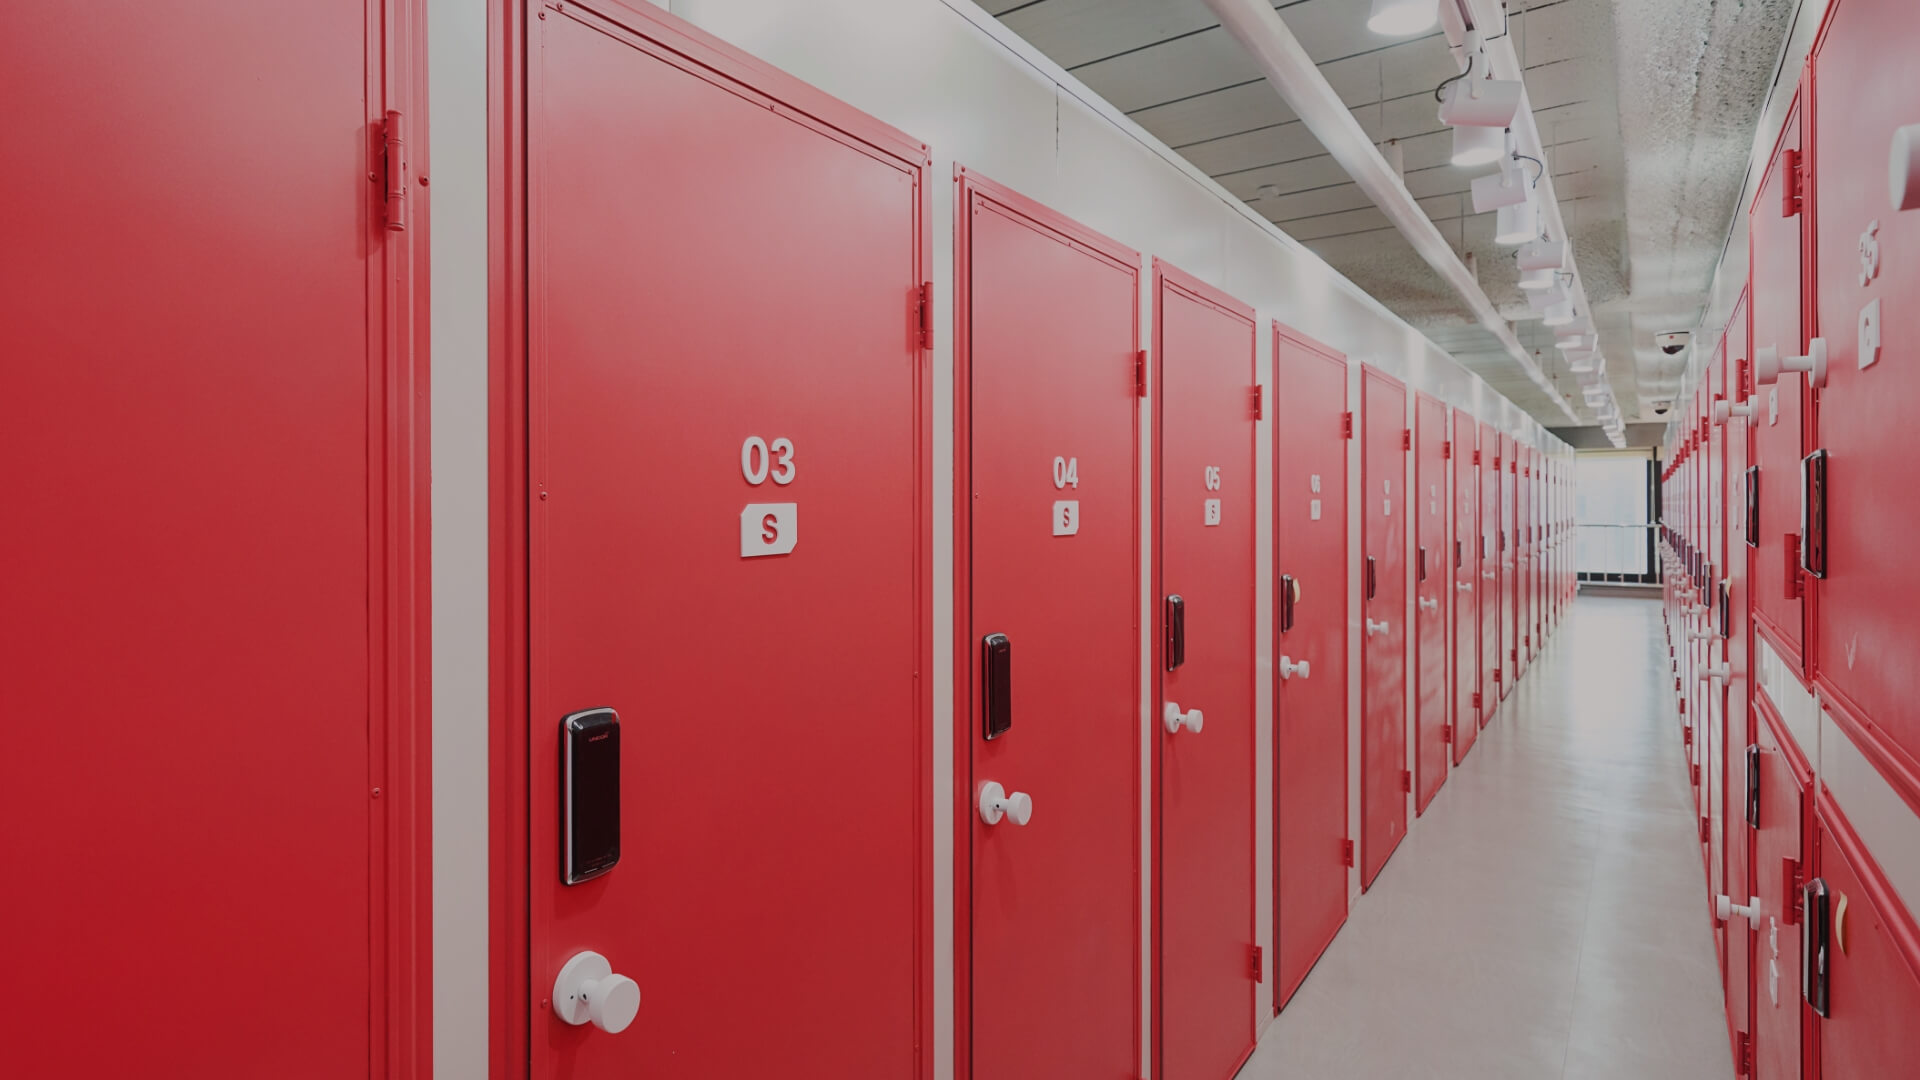
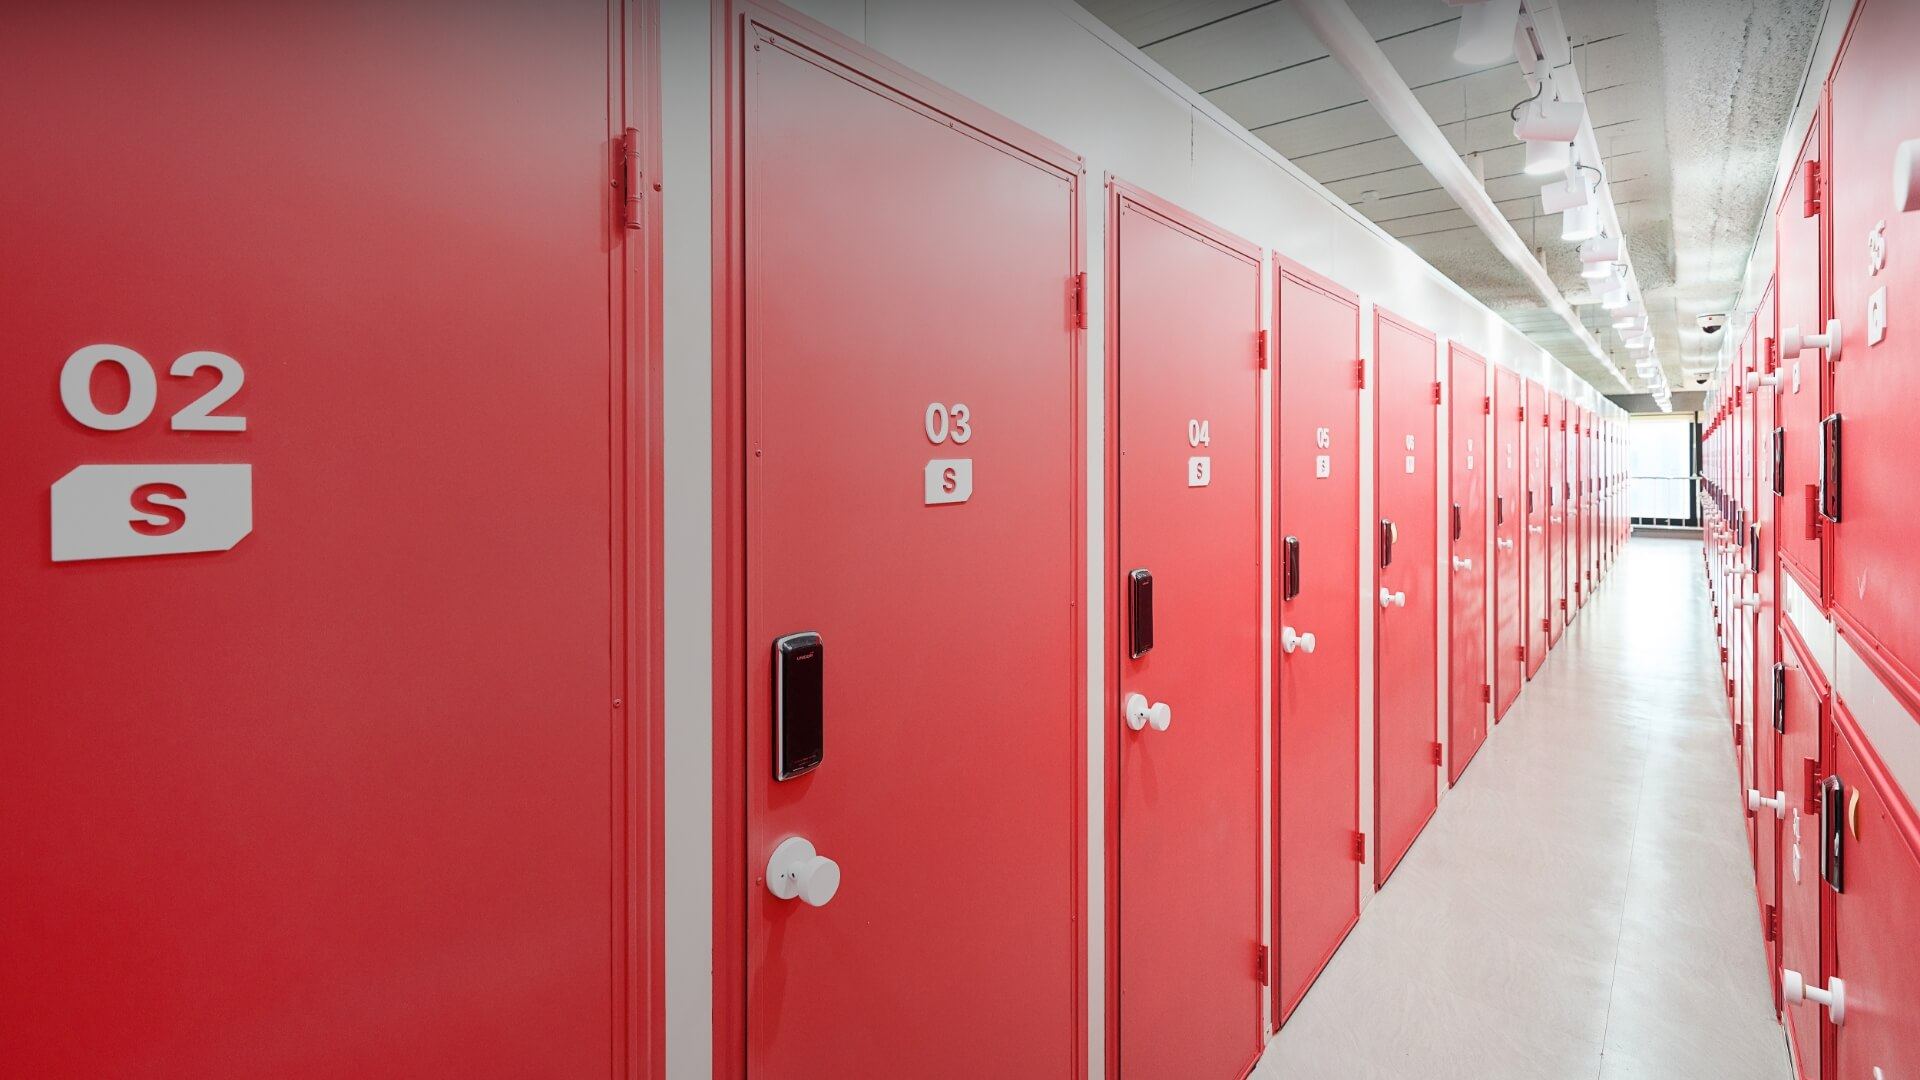
220118_joung

diff --git a/index.html b/index.html
@@ -309,24 +309,24 @@ if (confirm('저장하시겠습니까?') == true) {
         짐 보관도 할 수 있고<br>
         사업도 할 수 있는 슈가맨카고
       </h3>
-      <div class="row mt-4">
+      <div class="row mt-5">
         <div class="col-md-4">
           <img src="./assets/img/cargo_1_.jpg" class="img-fluid" alt="">
-          <h6 class="main-text mt-3">비즈니스 서비스</h6>
+          <h6 class="main-text mt-4">비즈니스 서비스</h6>
           <p class="sub-text">사업자 주소지가 필요한 경우<br class="d-none d-xl-block d-lg-block">
             사업자 주소지를 등록해 이용할 수 있으며<br class="d-none d-xl-block d-lg-block">
             무료로 제공하는 우편물 서비스도 누려보세요.</p>
         </div>
         <div class="col-md-4">
           <img src="./assets/img/cargo_2_.jpg" class="img-fluid" alt="">
-          <h6 class="main-text mt-3">물품 보관</h6>
+          <h6 class="main-text mt-4">물품 보관</h6>
           <p class="sub-text">업무 공간, 주거 공간에 물품들이 넘쳐나<br class="d-none d-xl-block d-lg-block">
             공간 이용이 부족한 경우 적당한 크기의<br class="d-none d-xl-block d-lg-block">
             스토리지를 이용해 공간 활용을 높여보세요.</p>
         </div>
         <div class="col-md-4">
           <img src="./assets/img/cargo_3_.jpg" class="img-fluid" alt="">
-          <h6 class="main-text mt-3">택배 서비스</h6>
+          <h6 class="main-text mt-4">택배 서비스</h6>
           <p class="sub-text">온라인 쇼핑몰을 운영한다면<br class="d-none d-xl-block d-lg-block">
             물량 걱정 없이 슈가맨워크와 제휴된 택배사로<br class="d-none d-xl-block d-lg-block">
             저렴한 가격에 택배를 경험해 보세요.</p>
@@ -587,7 +587,7 @@ if (confirm('저장하시겠습니까?') == true) {
           <ul class="footer-con-3">
             <li>
               <span>주소
-              </span>경기도 부천시 중동로254번길 78(중동) 6층
+              </span>경기도 부천시 중동로 254번길 78 6F
               <strong style="color: #e1e1e1"> | </strong>
             </li>
             <li>

diff --git a/assets/css/style.css b/assets/css/style.css
@@ -90,7 +90,9 @@ body {
   font-family: 'Noto Sans KR', sans-serif !important;
   letter-spacing: -.01em;
 }
-
+h3{
+  line-height: 1.4;
+}
 ul {
   list-style: none;
 }
@@ -228,7 +230,7 @@ ul {
   }
 
   .main-banner-text {
-    font-size: 2.5rem;
+    font-size: 2.4rem;
   }
 
   .branch-box {
@@ -580,7 +582,7 @@ ul {
 
 /* 메인페이지 메인배너 */
 .main-banner-wrap {
-  background-image: url(../img/main_banner.jpg);
+  background-image: url(../img/main_banner2@2x.jpg);
   background-repeat: no-repeat;
   background-position: center;
   background-size: cover;
@@ -626,7 +628,7 @@ ul {
 
 .main-banner-text {
   color: #fff;
-  font-size: 3.438rem;
+  font-size: 3.313rem;
   font-weight: 500;
 }
 

diff --git a/visit.html b/visit.html
@@ -549,7 +549,7 @@ if (confirm('저장하시겠습니까?') == true) {
           <ul class="footer-con-3">
             <li>
               <span>주소
-              </span>경기도 부천시 중동로254번길 78(중동) 6층
+              </span>경기도 부천시 중동로 254번길 78 6F
               <strong style="color: #e1e1e1"> | </strong>
             </li>
             <li>

diff --git a/faq.html b/faq.html
@@ -277,7 +277,7 @@
             <ul class="footer-con-3">
               <li>
                 <span>주소
-                </span>경기도 부천시 중동로254번길 78(중동) 6층
+                </span>경기도 부천시 중동로 254번길 78 6F
                 <strong style="color: #e1e1e1"> | </strong>
               </li>
               <li>

diff --git a/404.html b/404.html
@@ -295,7 +295,7 @@
           <ul class="footer-con-3">
             <li>
               <span>주소
-              </span>경기도 부천시 중동로254번길 78(중동) 6층
+              </span>경기도 부천시 중동로 254번길 78 6F
               <strong style="color: #e1e1e1"> | </strong>
             </li>
             <li>

diff --git a/about.html b/about.html
@@ -209,7 +209,7 @@
           <ul class="footer-con-3">
             <li>
               <span>주소
-              </span>경기도 부천시 중동로254번길 78(중동) 6층
+              </span>경기도 부천시 중동로 254번길 78 6F
               <strong style="color: #e1e1e1"> | </strong>
             </li>
             <li>

diff --git a/branch.html b/branch.html
@@ -247,7 +247,7 @@
           <ul class="footer-con-3">
             <li>
               <span>주소
-              </span>경기도 부천시 중동로254번길 78(중동) 6층
+              </span>경기도 부천시 중동로 254번길 78 6F
               <strong style="color: #e1e1e1"> | </strong>
             </li>
             <li>

diff --git a/branch_list.html b/branch_list.html
@@ -260,7 +260,7 @@
           <ul class="footer-con-3">
             <li>
               <span>주소
-              </span>경기도 부천시 중동로254번길 78(중동) 6층
+              </span>경기도 부천시 중동로 254번길 78 6F
               <strong style="color: #e1e1e1"> | </strong>
             </li>
             <li>

diff --git a/event.html b/event.html
@@ -166,7 +166,7 @@
           <ul class="footer-con-3">
             <li>
               <span>주소
-              </span>경기도 부천시 중동로254번길 78(중동) 6층
+              </span>경기도 부천시 중동로 254번길 78 6F
               <strong style="color: #e1e1e1"> | </strong>
             </li>
             <li>

diff --git a/eventdetail.html b/eventdetail.html
@@ -262,7 +262,7 @@
           <ul class="footer-con-3">
             <li>
               <span>주소
-              </span>경기도 부천시 중동로254번길 78(중동) 6층
+              </span>경기도 부천시 중동로 254번길 78 6F
               <strong style="color: #e1e1e1"> | </strong>
             </li>
             <li>

diff --git a/franchise.html b/franchise.html
@@ -293,7 +293,7 @@
           <ul class="footer-con-3">
             <li>
               <span>주소
-              </span>경기도 부천시 중동로254번길 78(중동) 6층
+              </span>경기도 부천시 중동로 254번길 78 6F
               <strong style="color: #e1e1e1"> | </strong>
             </li>
             <li>

diff --git a/inquiry.html b/inquiry.html
@@ -285,7 +285,7 @@
           <ul class="footer-con-3">
             <li>
               <span>주소
-              </span>경기도 부천시 중동로254번길 78(중동) 6층
+              </span>경기도 부천시 중동로 254번길 78 6F
               <strong style="color: #e1e1e1"> | </strong>
             </li>
             <li>
